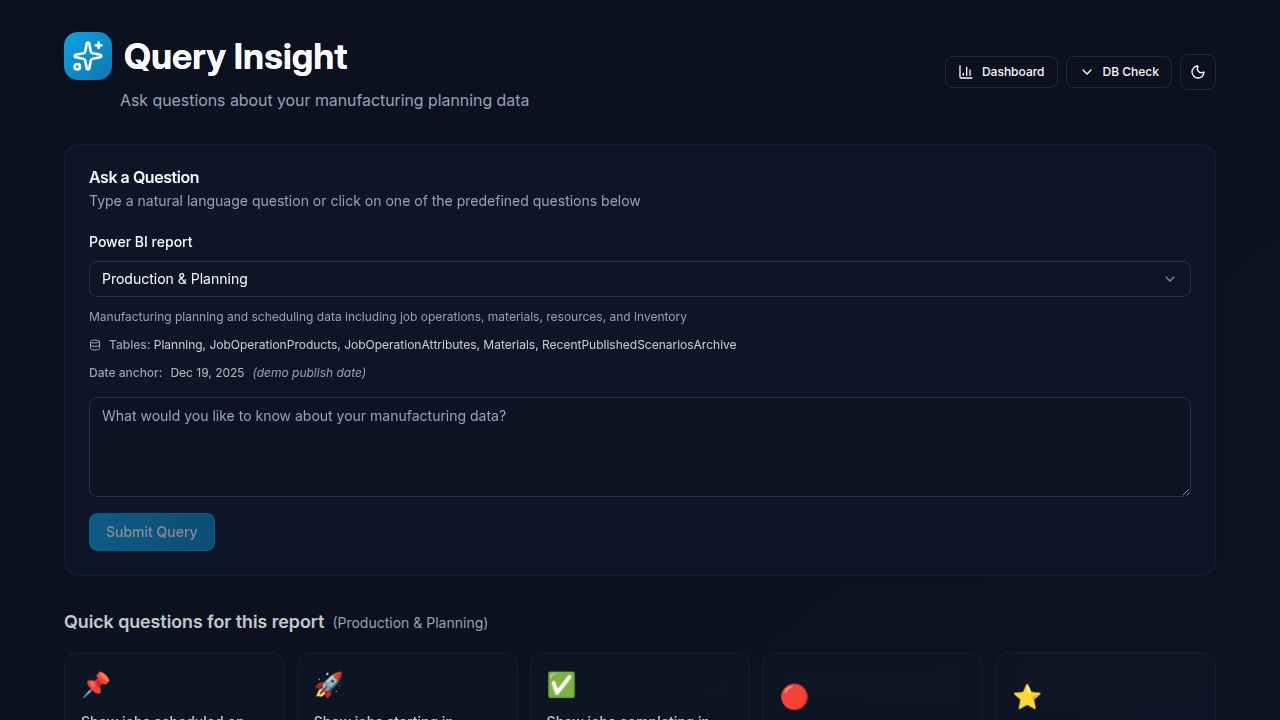
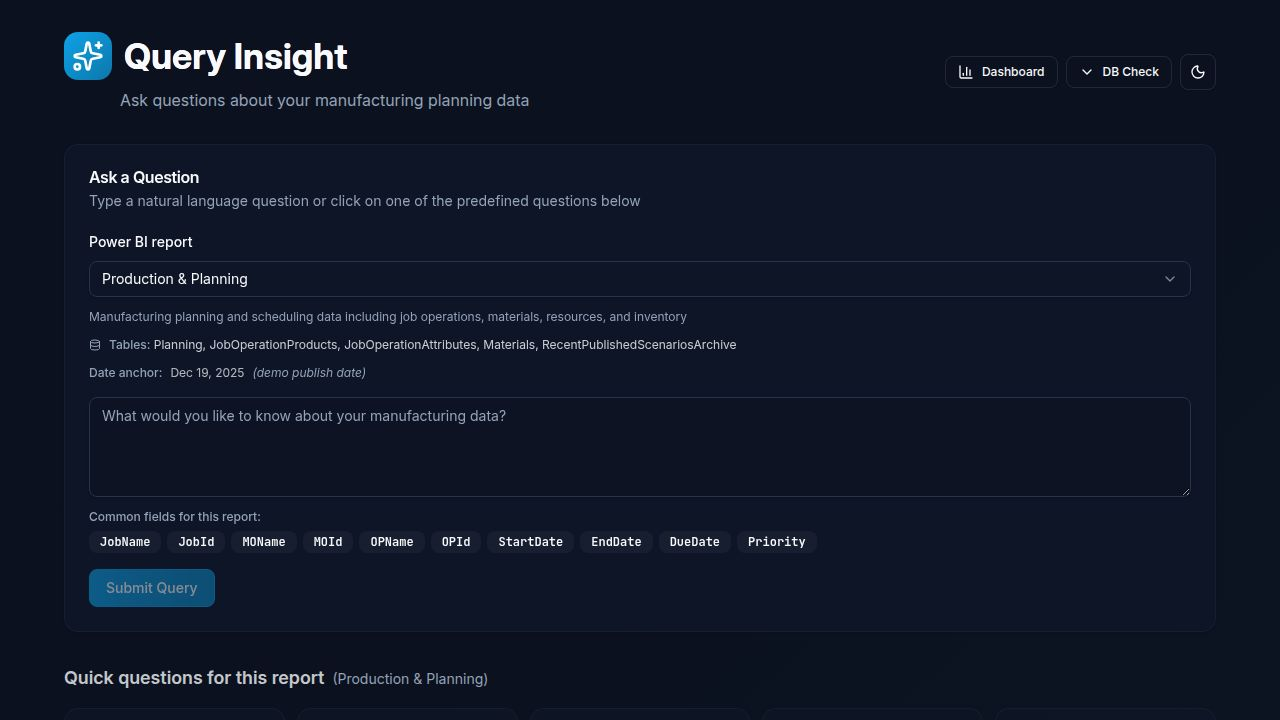
Add a helper to display common fields for each report
Updated the TypeScript interface and semantic catalog to include `commonFields` for report modes. Modified the query page to display these common fields as read-only chips below the input textarea.

Replit-Commit-Author: Agent
Replit-Commit-Session-Id: e87ac846-dce2-4191-afda-13b77c99bd05
Replit-Commit-Checkpoint-Type: intermediate_checkpoint
Replit-Commit-Event-Id: be0012a8-f51d-4627-837f-2561dcdc463f
Replit-Commit-Screenshot-Url: https://storage.googleapis.com/screenshot-production-us-central1/fe231bd0-3575-4d97-ac43-7b7995348253/e87ac846-dce2-4191-afda-13b77c99bd05/IW8CxG9

diff --git a/client/src/pages/query.tsx b/client/src/pages/query.tsx
@@ -69,6 +69,7 @@ interface SemanticMode {
   tables: string[];
   default: boolean;
   schemaImplemented?: boolean;
+  commonFields?: string[];
 }
 
 interface SemanticCatalog {
@@ -442,14 +443,45 @@ export default function QueryPage() {
                 )}
               </div>
 
-              <Textarea
-                placeholder="What would you like to know about your manufacturing data?"
-                value={question}
-                onChange={(e) => setQuestion(e.target.value)}
-                onKeyDown={handleKeyDown}
-                className="min-h-[100px] bg-background/50"
-                data-testid="input-question"
-              />
+              <div className="space-y-3">
+                <Textarea
+                  placeholder="What would you like to know about your manufacturing data?"
+                  value={question}
+                  onChange={(e) => setQuestion(e.target.value)}
+                  onKeyDown={handleKeyDown}
+                  className="min-h-[100px] bg-background/50"
+                  data-testid="input-question"
+                />
+                
+                {/* Common fields helper */}
+                {(() => {
+                  const selectedReport = semanticCatalog?.modes.find(m => m.id === selectedMode);
+                  if (!selectedReport || !selectedReport.commonFields || selectedReport.commonFields.length === 0) {
+                    return null;
+                  }
+                  
+                  return (
+                    <div className="space-y-1.5" data-testid="common-fields-display">
+                      <p className="text-xs font-medium text-muted-foreground">
+                        Common fields for this report:
+                      </p>
+                      <div className="flex flex-wrap gap-1.5">
+                        {selectedReport.commonFields.map((field) => (
+                          <Badge 
+                            key={field} 
+                            variant="secondary" 
+                            className="text-xs font-mono bg-muted/50 hover:bg-muted/70 cursor-default"
+                            data-testid={`field-chip-${field}`}
+                          >
+                            {field}
+                          </Badge>
+                        ))}
+                      </div>
+                    </div>
+                  );
+                })()}
+              </div>
+              
               <Button 
                 type="submit" 
                 disabled={loading || !question.trim()} 
